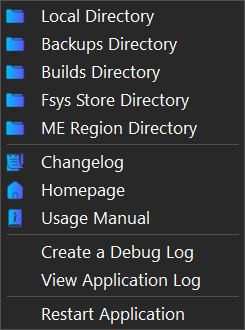
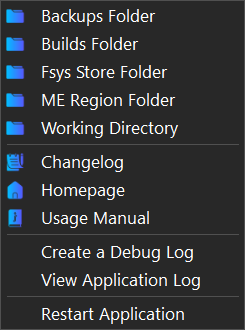
Update resources

Changed region(s): [[0.1714, 0.0303, 0.7429, 0.2424], [0.1714, 0.3636, 0.8, 0.4242], [0.1714, 0.2727, 0.7714, 0.3333]]

diff --git a/mefit/WinForms/patcherWindow.Designer.cs b/mefit/WinForms/patcherWindow.Designer.cs
@@ -771,7 +771,7 @@ namespace Mac_EFI_Toolkit.WinForms
             this.lblOutputText.Padding = new System.Windows.Forms.Padding(8, 0, 0, 0);
             this.lblOutputText.Size = new System.Drawing.Size(416, 34);
             this.lblOutputText.TabIndex = 99;
-            this.lblOutputText.Text = "Output";
+            this.lblOutputText.Text = "OUTPUT";
             this.lblOutputText.TextAlign = System.Drawing.ContentAlignment.MiddleLeft;
             // 
             // cmdSaveLog
@@ -789,7 +789,7 @@ namespace Mac_EFI_Toolkit.WinForms
             this.cmdSaveLog.Margin = new System.Windows.Forms.Padding(0);
             this.cmdSaveLog.Name = "cmdSaveLog";
             this.cmdSaveLog.Size = new System.Drawing.Size(90, 34);
-            this.cmdSaveLog.TabIndex = 4;
+            this.cmdSaveLog.TabIndex = 0;
             this.cmdSaveLog.Text = "Save Log";
             this.cmdSaveLog.UseVisualStyleBackColor = false;
             this.cmdSaveLog.Click += new System.EventHandler(this.cmdSaveLog_Click);

diff --git a/MANUAL.md b/MANUAL.md
@@ -49,20 +49,20 @@ Opens the overflow menu with various extra options:
   <img src="files/manual/overflowmenu.png">
 </kbd>
 
-**'Local Directory':**\
-Opens the working directory where the executable is located.
-
-**'Backups Directory':**\
+**'Backups Folder':**\
 Navigates to the Backups directory. This is the default location where zipped file backups are exported.
 
-**'Builds Directory':**\
+**'Builds Folder':**\
 Navigates to the Builds directory within the working directory, this is where edited binaries are automatically saved.
 
-**'Fsys Store Directory':**\
+**'Fsys Store Folder':**\
 Navigates to the Fsys Store directory within the working directory. This is the default location where Fsys Stores are exported.
 
-**'ME Region Directory':**\
+**'ME Region Folder':**\
 Navigates to the ME Region directory within the working directory. This is the default path where ME regions are exported.
+
+**'Working Directory':**\
+Opens the current working directory where the executable is located.
 
 **'Changelog':**\
 Opens a browser window directly to the application's changelog.
@@ -300,37 +300,29 @@ This section explains the firmware editor window and its functionality.
 #### Fsys Store:
 
 <kbd>
-  <img src="files/manual/fsys_replace.png">
+  <img src="files/manual/patcher_fsys.png">
 </kbd>
 
-When the checkbox is activated, an open file dialog will be prompted, enabling the selection and opening of the new Fsys Store. If you want to choose a different file, simply click the 'Change File' button to reopen the file dialog.
+This section comprises of two main functions.
+
+When the "Replace Fsys Store" switch is activated, an open file dialog will be prompted, enabling the selection and opening of the new Fsys Store. If you want to choose a different file, simply click the 'Change File' button to reopen the file dialog.
 
 The application will verify the new Fsys Store, if CRC masking is require this will be done automatically at build time.
 
-> 🛈 The `Replace Serial Number` option is not available when `Replace Fsys Store` is selected.
+> 🛈 Only one option is available at a time. If you choose one, the other is disabled.
 
----
-
-#### Serial Number:
-
-<kbd>
-  <img src="files/manual/serial_replace.png">
-</kbd>
-
-When the checkbox is activated, it will enable the 'SSN' textbox, allowing input of a new serial number. Once a valid serial number is entered, the Hardware Configuration code (HWC) will be automatically determined based on the provided serial number. It is important to note that you cannot change the HWC separately from the serial number. The HWC must match the serial number and cannot be modified independently.
+When the "Replace Serial Number" switch is activated, it will enable the 'SSN' textbox, allowing input of a new serial number. Once a valid serial number is entered, the Hardware Configuration code (HWC) will be automatically determined based on the provided serial number. It is important to note that you cannot change the HWC separately from the serial number. The HWC must match the serial number and the application does not allow independent modification.
 
 The application will automatically enforce the required length of the serial number, allowing for either 11 or 12 characters. It will also provide validation to ensure that only valid characters are entered. This helps to ensure that the serial number input meets the necessary criteria and maintains the expected format.
 
 The editor will automatically verify and mask the Fsys Store CRC32 after the serial number patching is complete.
-
-> 🛈 The `Replace Fsys Store` option is not available when `Replace Serial Number` is selected.
 
 ---
 
 #### NVRAM:
 
 <kbd>
-  <img src="files/manual/nvram_clear.png">
+  <img src="files/manual/patcher_nvram.png">
 </kbd>
 
 In this section, you have the option to clear specific NVRAM stores. By selecting 'Clear VSS Store', a general PRAM reset will be performed, similar to using CMD + SHIFT + P + R on the Mac keyboard. This action helps in resetting parameters stored in the VSS Store.
@@ -341,10 +333,10 @@ The NSS store's specific purpose is currently unknown to me. It is included as a
 
 ---
 
-#### ME Region:
+#### Intel ME:
 
 <kbd>
-  <img src="files/manual/me_replace.png">
+  <img src="files/manual/patcher_intelme.png">
 </kbd>
 
 When the checkbox is activated, an open file dialog will be prompted, allowing selection of a donor or clean Management Engine (ME) firmware. This feature proves useful for scenarios such as migrating a ME Region from a faulty UEFI to a donor UEFI. Additionally, it can be utilized to write a configured ME Region from a matching clean Apple firmware.
@@ -360,7 +352,7 @@ For users who require a higher level of certainty and guidance in replacing the 
 #### Output:
 
 <kbd>
-  <img src="files/manual/output.png">
+  <img src="files/manual/patcher_output.png">
 </kbd>
 
 This section includes a single button and the output log. By clicking the 'Save Log' button, a save file dialog will be prompted, allowing you to export the log text to a file of your choice.
